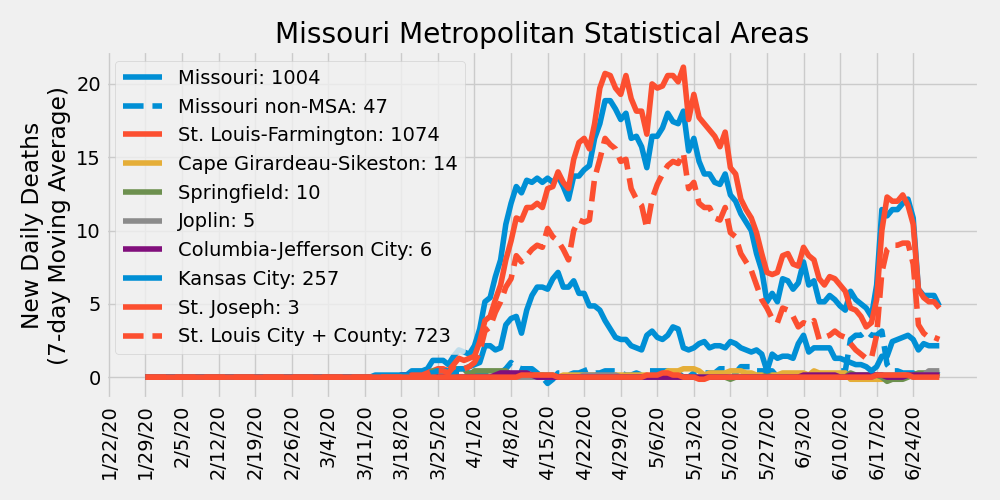
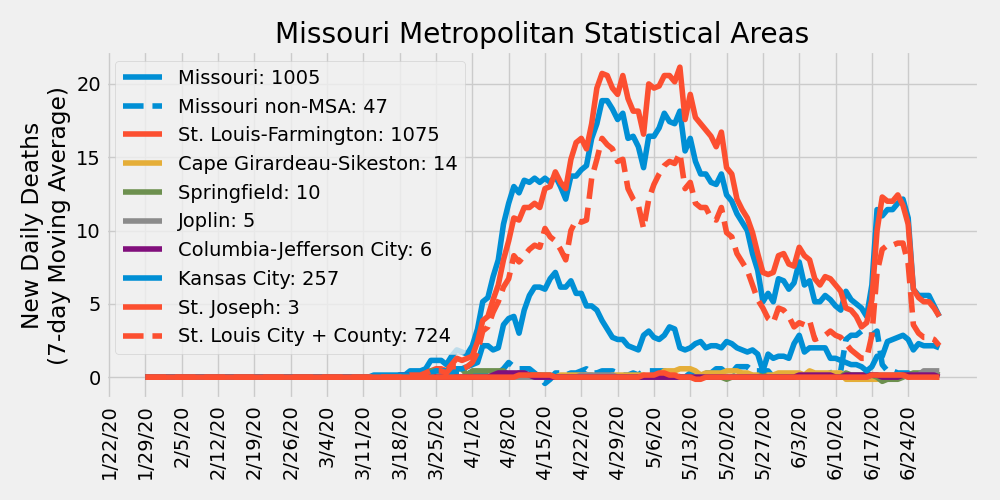
update 7/1/2020

Changed region(s): [[0.403, 0.12, 0.961, 0.78], [0.248, 0.81, 0.93, 0.96], [0.31, 0.15, 0.341, 0.18]]

diff --git a/ajvogt-analysis/missouri_analysis.md b/ajvogt-analysis/missouri_analysis.md
@@ -1,6 +1,6 @@
 # COVID-19 Missouri Statistics & Regional Breakdowns
 Author: Adam J. Vogt  
-Updated: 06/30/2020  
+Updated: 07/01/2020  
 Source: [COVID-19 Data Repository by the Center for Systems Science and Engineering (CSSE) at Johns Hopkins University](https://github.com/CSSEGISandData/COVID-19)  
 Source Code: `/ajvogt-analysis/mo_analysis_script.py`  
 Release Notes: [release_notes.md](https://github.com/ajvogt/COVID-19/blob/master/ajvogt-analysis/release_notes.md)
@@ -32,12 +32,12 @@ Legend shows cumulative confirmed cases
 | St. Louis-Farmington | Missouri | Franklin | 204 | 18 |
 | St. Louis-Farmington | Missouri | Jefferson | 445 | 19 |
 | St. Louis-Farmington | Missouri | St. Charles | 1010 | 73 |
-| St. Louis-Farmington | Missouri | St. Louis | 6446 | 568 |
-| St. Louis-Farmington | Missouri | St. Louis City | 2453 | 155 |
+| St. Louis-Farmington | Missouri | St. Louis | 6582 | 568 |
+| St. Louis-Farmington | Missouri | St. Louis City | 2493 | 156 |
 | St. Louis-Farmington | Missouri | St. Francois | 138 | 2 |
-| St. Louis-Farmington | Illinois | Monroe | 126 | 13 |
-| St. Louis-Farmington | Illinois | St. Clair | 1863 | 135 |
-| St. Louis-Farmington | Illinois | Madison | 931 | 68 |
+| St. Louis-Farmington | Illinois | Monroe | 127 | 13 |
+| St. Louis-Farmington | Illinois | St. Clair | 1874 | 135 |
+| St. Louis-Farmington | Illinois | Madison | 932 | 68 |
 | St. Louis-Farmington | Illinois | Macoupin | 51 | 3 |
 | St. Louis-Farmington | Illinois | Jersey | 35 | 1 |
 | St. Louis-Farmington | Illinois | Clinton | 236 | 17 |
@@ -71,7 +71,7 @@ Legend shows cumulative confirmed cases
 | Kansas City | Missouri | Clinton | 23 | 0 |
 | Kansas City | Missouri | Bates | 12 | 1 |
 | Kansas City | Missouri | Caldwell | 9 | 0 |
-| Kansas City | Kansas | Johnson | 1651 | 86 |
+| Kansas City | Kansas | Johnson | 1692 | 86 |
 | Kansas City | Kansas | Wyandotte | 2234 | 82 |
 | Kansas City | Kansas | Leavenworth | 1162 | 7 |
 | Kansas City | Kansas | Miami | 27 | 0 |
